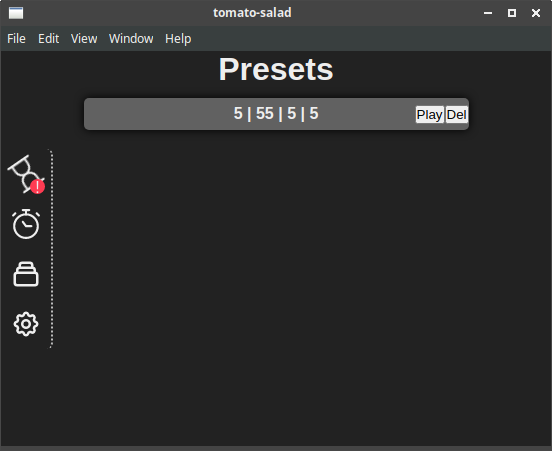
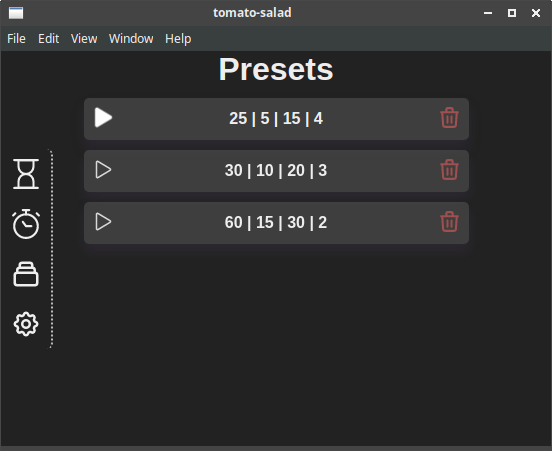
PresetItem's CSS, update to README

Changed region(s): [[0.154, 0.2173, 0.8623, 0.5588], [0.0, 0.3415, 0.0924, 0.4346]]

diff --git a/src/assets/styles/presetItem.css b/src/assets/styles/presetItem.css
@@ -8,20 +8,61 @@
 
   text-align: center;
   padding: 7px;
+  font-family: Helvetica;
   font-weight: bold;
-  background-color: #9998;
-  box-shadow: 0px 0px 10px #000;
+
+  background-color: #7775;
+  box-shadow: 0 8px 12px 0 rgba(61, 50, 73, 0.37);
   border-radius: 5px;
 }
 
 
-.values {
+/* Inside */
 
+.values {
+  position: absolute;
+  left: 50%;
+  top: 50%;
+  transform: translate(-50%, -50%);
 }
 .buttonsGoHere {
-  position: absolute;
-  right: 0;
+  width: 100%;
+  display: flex;
+  justify-content: space-between;
 }
-.buttonsGoHere > button {
 
+.buttonsGoHere > button {
+  width: 25px;
+  background-color: transparent;
+  border: none;
+  transition: transform 0.5s;
+}
+.buttonsGoHere > button:hover {
+  transform: scale(1.1);
+}
+
+.buttonsGoHere > button > svg {
+  width: 100%;
+  /* color: white; */
+}
+
+.ionicon {
+  fill: none;
+  opacity: 0.8;
+  transition: opacity 0.5s;
+  color: white;
+
+}
+.ionicon:hover, .ionicon:focus {
+  fill: white;
+  opacity: 1;
+}
+
+.hideTillHover {
+  opacity: 0.5;
+  transition: opacity 0.5s;
+  color: rgb(255, 97, 97) !important;
+}
+.hideTillHover:hover, .hideTillHover:focus {
+  opacity: 1;
 }

diff --git a/src/components/presetItem.vue b/src/components/presetItem.vue
@@ -14,9 +14,18 @@
         presetValues.shortBreakLen,
         presetValues.longBreakLen,
         presetValues.loopsTim)">
-        Play
+          <svg xmlns="http://www.w3.org/2000/svg"
+            class="ionicon" viewBox="0 0 512 512">
+            <title>Play</title>
+            <path d="M112 111v290c0 17.44 17 28.52 31 20.16l247.9-148.37c12.12-7.25 12.12-26.33 0-33.58L143 90.84c-14-8.36-31 2.72-31 20.16z" stroke="currentColor" stroke-miterlimit="10" stroke-width="32"/>
+          </svg>
       </button>
-      <button @click="deletePreset(index)">Del</button>
+
+      <button @click="deletePreset(index)" class="hideTillHover">
+        <svg xmlns="http://www.w3.org/2000/svg" class="h-6 w-6" fill="none" viewBox="0 0 24 24" stroke="currentColor" stroke-width="2">
+          <path stroke-linecap="round" stroke-linejoin="round" d="M19 7l-.867 12.142A2 2 0 0116.138 21H7.862a2 2 0 01-1.995-1.858L5 7m5 4v6m4-6v6m1-10V4a1 1 0 00-1-1h-4a1 1 0 00-1 1v3M4 7h16" />
+        </svg>
+      </button>
     </div>
   </div>
 </template>

diff --git a/README.md b/README.md
@@ -9,6 +9,8 @@ A Vue+Electron Pomodoro Timer. Easy and fast to use.
 
 ![](./README_assets/stopwatch_running.png)
 
+![](./README_assets//presets.png)
+
 ---
 ## Project setup
 ```
